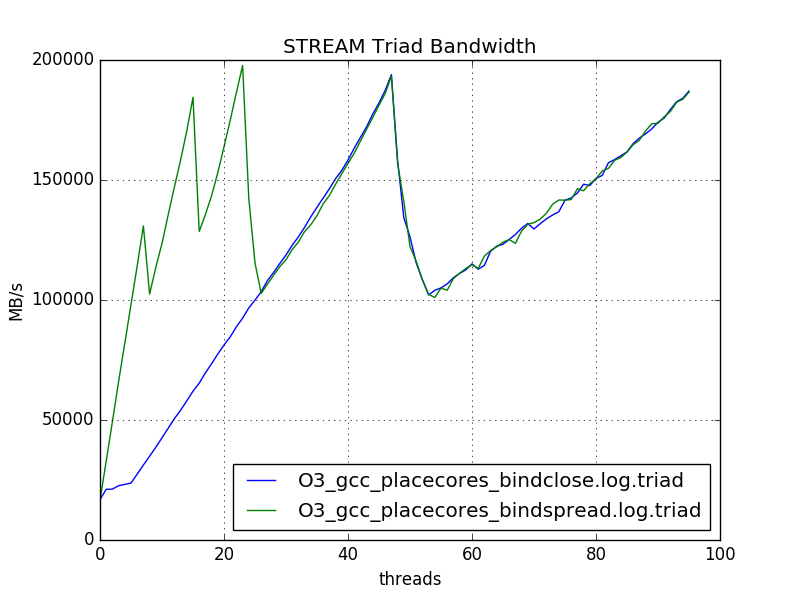
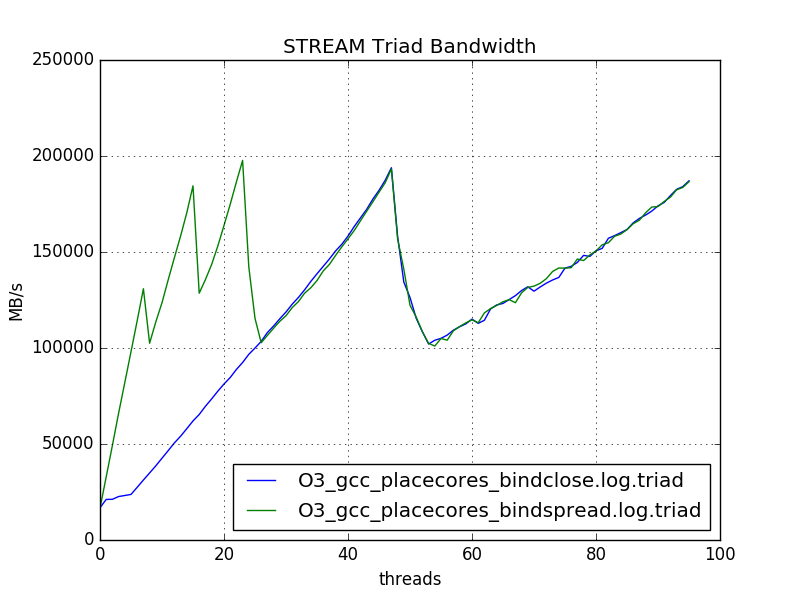
stream: set upper limit on bandwidth plot

diff --git a/stream/plot.py b/stream/plot.py
@@ -21,6 +21,9 @@ for inlog in sys.argv[2:]:
   plt.plot(opt)
   labels.append(inlog)
 
+axes = plt.gca()
+axes.set_ylim([0,250000])
+
 plt.legend(labels, loc='lower right')
 plt.xlabel('threads')
 plt.ylabel('MB/s')
